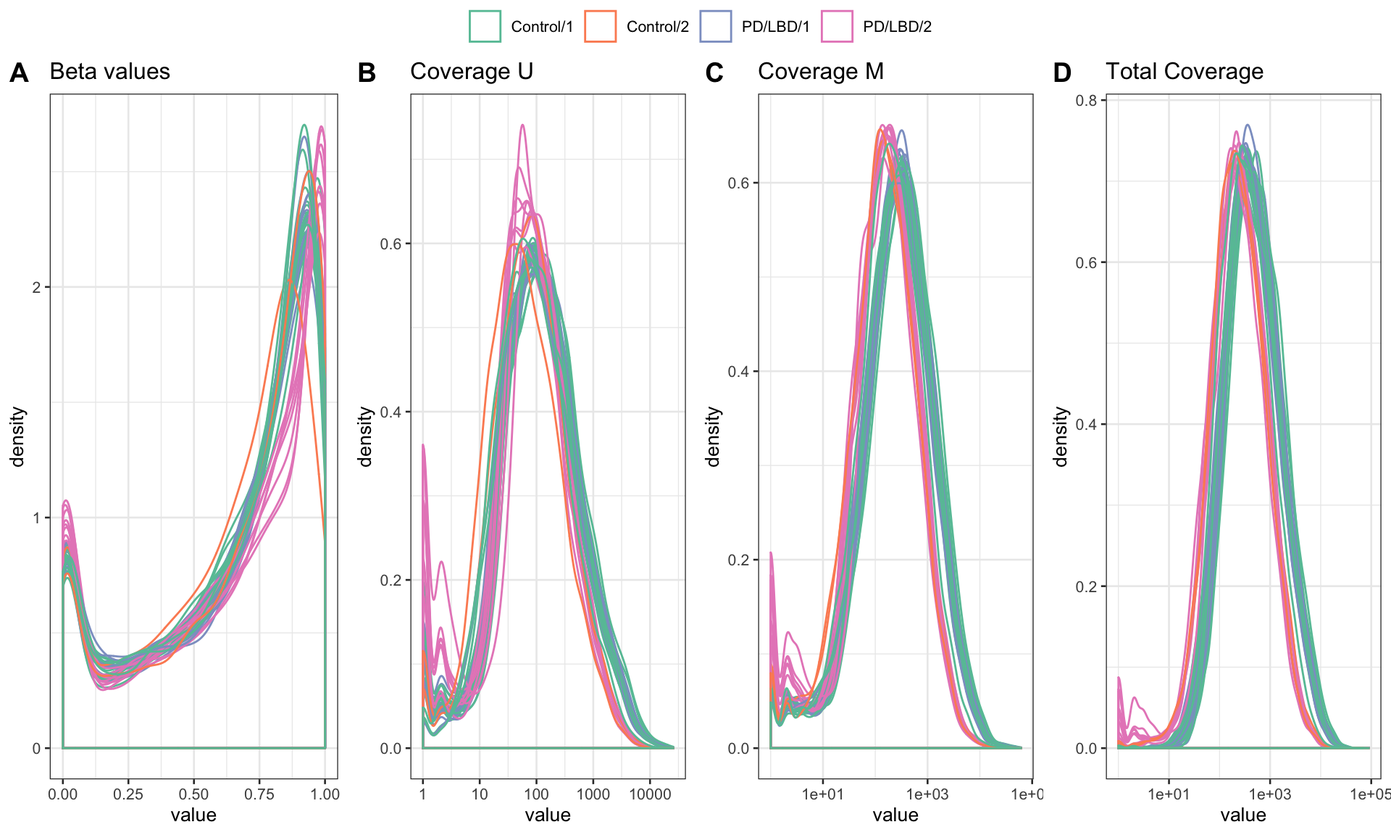
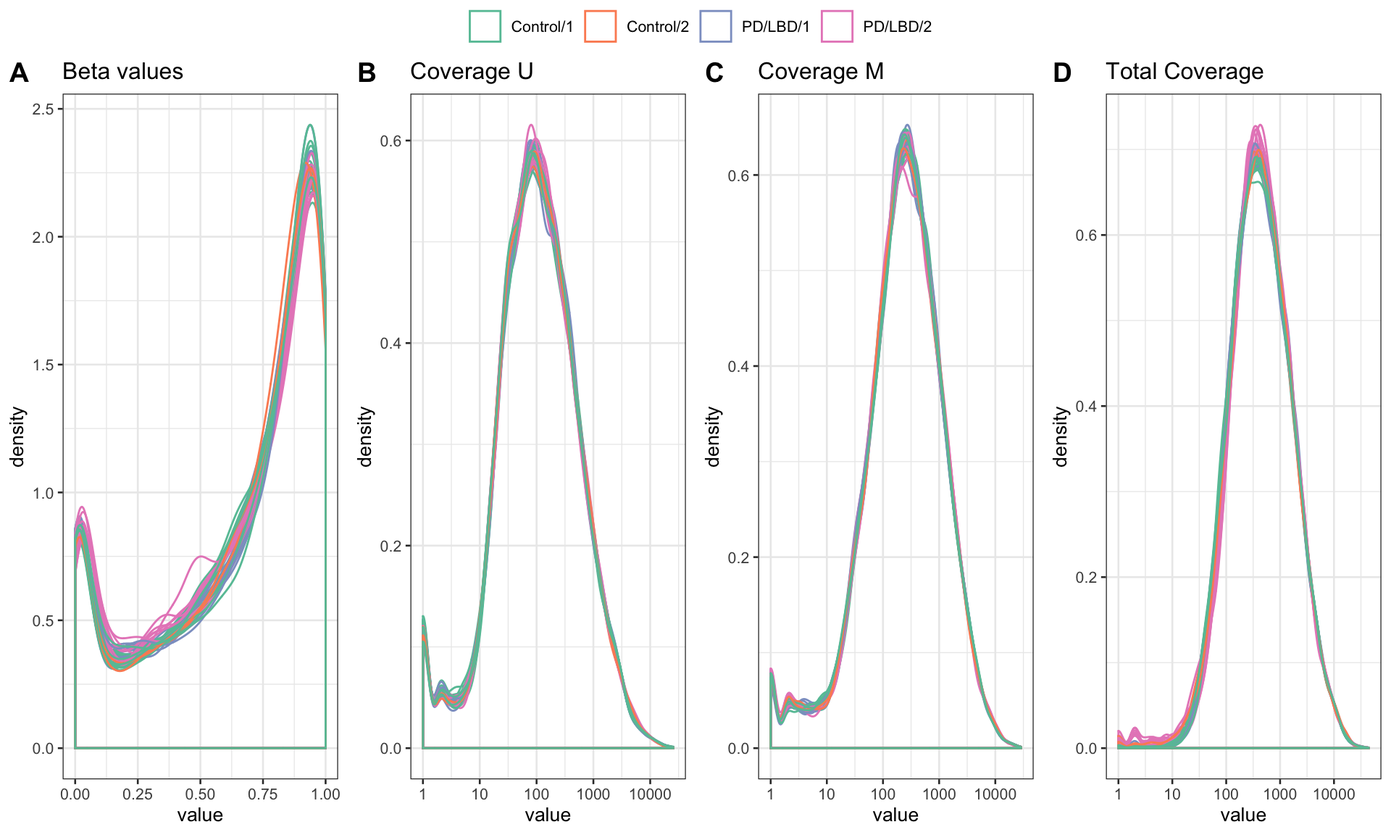
Clean up of appendix pd vs controls, padlock

diff --git a/Appendix_PDvsControls_Padlock/index.html b/Appendix_PDvsControls_Padlock/index.html
@@ -315,7 +315,6 @@ div.tocify {
 </div>
 <div id="section-data" class="section level1">
 <h1>Data</h1>
-<p>From directory PD_Appendix_padloc_01172019, the beta and count matrices provided by Peipei. Technical replicates were combined by averaging and rounding their M and U counts. Beta values were already averaged.</p>
 <p>Resulting data structure:</p>
 <pre><code>##      sample   beta genome counts countsU countsM modelData
 ## [1,]     44 186080 186080 186080  186080  186080        44
@@ -394,12 +393,12 @@ PD/LBD
 <div id="section-normalization" class="section level2">
 <h2>Normalization</h2>
 <p>Signal density before normalization</p>
-<p><img src="index_files/figure-html/unnamed-chunk-12-1.png" width="100%" /></p>
+<p><img src="index_files/figure-html/unnamed-chunk-11-1.png" width="100%" /></p>
 <!-- After normalization -->
-<p>NU and M matrices were quantile normalized separately, total counts and beta values were obtained from normalized matrices.</p>
+<p>U and M matrices were quantile normalized separately, total counts and beta values were obtained from normalized matrices.</p>
 <p>Signals after normalization</p>
-<p><img src="index_files/figure-html/unnamed-chunk-13-1.png" width="100%" />PCA and outliers after normalization</p>
-<p><img src="index_files/figure-html/unnamed-chunk-13-2.png" width="100%" /></p>
+<p><img src="index_files/figure-html/unnamed-chunk-12-1.png" width="100%" />PCA and outliers after normalization</p>
+<p><img src="index_files/figure-html/unnamed-chunk-12-2.png" width="100%" /></p>
 </div>
 <div id="section-covariates" class="section level2">
 <h2>Covariates</h2>
@@ -435,7 +434,6 @@ PD/LBD
 </div>
 <div id="section-robust-lmfit" class="section level1">
 <h1>Robust lmFit</h1>
-<p>50% stable, non extreme change, M values, robust limma eBayes</p>
 <pre class="r"><code>methylation &lt;- data$beta
 prefix &lt;- &quot;m6_&quot;
 modelparams &lt;- list(
@@ -456,12 +454,12 @@ modelparams &lt;- list(
 <blockquote>
 <p>Beta values were converted to M values.</p>
 </blockquote>
-<p><img src="index_files/figure-html/unnamed-chunk-20-1.png" width="100%" /></p>
+<p><img src="index_files/figure-html/unnamed-chunk-19-1.png" width="100%" /></p>
 </div>
 <div id="section-data-download" class="section level2">
 <h2>Data download</h2>
 <blockquote>
-<p>Download <a href="www/m6_methylation.RDS">data</a> file.</p>
+<p><a href="www/m6_methylation.RDS">Download processed data (.RDS)</a> file.</p>
 </blockquote>
 </div>
 <div id="section-data-pcs-vs-covariates" class="section level2">
@@ -826,7 +824,7 @@ PC5
 </tbody>
 </table>
 <p>The covariates significantly affecting the PCs using ANOVA:</p>
-<p><img src="index_files/figure-html/unnamed-chunk-24-1.png" width="100%" /></p>
+<p><img src="index_files/figure-html/unnamed-chunk-23-1.png" width="100%" /></p>
 </div>
 <div id="section-select-the-number-of-svs" class="section level2">
 <h2>Select the number of SVs</h2>
@@ -838,63 +836,19 @@ PC5
 <div id="section-p-value-distribution" class="section level3">
 <h3>P value distribution</h3>
 <pre><code>## Warning: Removed 29 rows containing non-finite values (stat_bin).</code></pre>
-<p><img src="index_files/figure-html/unnamed-chunk-29-1.png" width="100%" /></p>
+<p><img src="index_files/figure-html/unnamed-chunk-28-1.png" width="100%" /></p>
 </div>
 <div id="section-volcano-plot" class="section level3">
 <h3>Volcano plot</h3>
-<p><img src="index_files/figure-html/unnamed-chunk-31-1.png" width="100%" /></p>
+<p><img src="index_files/figure-html/unnamed-chunk-30-1.png" width="100%" /></p>
 </div>
 <div id="section-manhattan-plot" class="section level3">
 <h3>Manhattan plot</h3>
-<pre><code>## Loading required package: ggrepel</code></pre>
-<p><img src="index_files/figure-html/unnamed-chunk-32-1.png" width="100%" /><a href="www/m6_manhattan.pdf">PDF</a></p>
-</div>
-<div id="section-enrichment" class="section level3">
-<h3>Enrichment</h3>
-<table class="table table-striped table-hover" style="margin-left: auto; margin-right: auto;">
-<thead>
-<tr>
-<th style="text-align:left;">
-substr
-</th>
-<th style="text-align:right;">
-MeanFC
-</th>
-<th style="text-align:right;">
-NoSign
-</th>
-<th style="text-align:right;">
-OR
-</th>
-<th style="text-align:right;">
-P
-</th>
-</tr>
-</thead>
-<tbody>
-<tr>
-<td style="text-align:left;">
-CG
-</td>
-<td style="text-align:right;">
--0.0152209
-</td>
-<td style="text-align:right;">
-928
-</td>
-<td style="text-align:right;">
-1.3864
-</td>
-<td style="text-align:right;">
-1e-06
-</td>
-</tr>
-</tbody>
-</table>
+<p><img src="index_files/figure-html/unnamed-chunk-31-1.png" width="100%" /></p>
 </div>
 <div id="section-download" class="section level3">
 <h3>Download</h3>
-<p><a href="www/m6_Appendix_PDvsControls_Padlock.csv">Download results</a></p>
+<p><a href="www/m6_Appendix_PDvsControls_Padlock.csv">Download model fit results (.csv)</a></p>
 <!-- Final touches to remove lasting effects -->
 </div>
 </div>
@@ -916,28 +870,27 @@ CG
 ## [8] base     
 ## 
 ## other attached packages:
-##  [1] ggrepel_0.8.1         latex2exp_0.4.0       doSNOW_1.0.18        
-##  [4] snow_0.4-3            itertools_0.1-3       iterators_1.0.12     
-##  [7] limma_3.42.0          impute_1.60.0         WGCNA_1.68           
-## [10] fastcluster_1.1.25    dynamicTreeCut_1.63-1 glue_1.3.1           
-## [13] foreach_1.4.7         ggpubr_0.2.4          magrittr_1.5         
-## [16] plotly_4.9.1          ggplot2_3.2.1         dplyr_0.8.3          
-## [19] data.table_1.12.8     kableExtra_1.1.0      knitr_1.26           
-## [22] shiny_1.4.0          
+##  [1] latex2exp_0.4.0       doSNOW_1.0.18         snow_0.4-3           
+##  [4] itertools_0.1-3       iterators_1.0.12      limma_3.42.0         
+##  [7] impute_1.60.0         WGCNA_1.68            fastcluster_1.1.25   
+## [10] dynamicTreeCut_1.63-1 glue_1.3.1            foreach_1.4.7        
+## [13] ggpubr_0.2.4          magrittr_1.5          plotly_4.9.1         
+## [16] ggplot2_3.2.1         dplyr_0.8.3           data.table_1.12.8    
+## [19] kableExtra_1.1.0      knitr_1.26            shiny_1.4.0          
 ## 
 ## loaded via a namespace (and not attached):
 ##  [1] colorspace_1.4-1      ggsignif_0.6.0        htmlTable_1.13.3     
 ##  [4] base64enc_0.1-3       rstudioapi_0.10       farver_2.0.1         
-##  [7] bit64_0.9-7           AnnotationDbi_1.48.0  mvtnorm_1.0-11       
-## [10] xml2_1.2.2            codetools_0.2-16      splines_3.6.1        
-## [13] doParallel_1.0.15     robustbase_0.93-5     zeallot_0.1.0        
-## [16] Formula_1.2-3         jsonlite_1.6          cluster_2.1.0        
-## [19] GO.db_3.10.0          rrcov_1.4-7           readr_1.3.1          
-## [22] compiler_3.6.1        httr_1.4.1            backports_1.1.5      
-## [25] assertthat_0.2.1      Matrix_1.2-17         fastmap_1.0.1        
-## [28] lazyeval_0.2.2        later_1.0.0           acepack_1.4.1        
-## [31] htmltools_0.4.0       tools_3.6.1           gtable_0.3.0         
-## [34] reshape2_1.4.3        Rcpp_1.0.3            Biobase_2.46.0       
+##  [7] ggrepel_0.8.1         bit64_0.9-7           AnnotationDbi_1.48.0 
+## [10] mvtnorm_1.0-11        xml2_1.2.2            codetools_0.2-16     
+## [13] splines_3.6.1         doParallel_1.0.15     robustbase_0.93-5    
+## [16] zeallot_0.1.0         Formula_1.2-3         jsonlite_1.6         
+## [19] cluster_2.1.0         GO.db_3.10.0          rrcov_1.4-7          
+## [22] readr_1.3.1           compiler_3.6.1        httr_1.4.1           
+## [25] backports_1.1.5       assertthat_0.2.1      Matrix_1.2-17        
+## [28] fastmap_1.0.1         lazyeval_0.2.2        later_1.0.0          
+## [31] acepack_1.4.1         htmltools_0.4.0       tools_3.6.1          
+## [34] gtable_0.3.0          Rcpp_1.0.3            Biobase_2.46.0       
 ## [37] vctrs_0.2.1           preprocessCore_1.48.0 xfun_0.11            
 ## [40] stringr_1.4.0         rvest_0.3.5           mime_0.8             
 ## [43] lifecycle_0.1.0       DEoptimR_1.0-8        MASS_7.3-51.4        
@@ -950,23 +903,22 @@ CG
 ## [64] matrixStats_0.55.0    evaluate_0.14         lattice_0.20-38      
 ## [67] purrr_0.3.3           htmlwidgets_1.5.1     labeling_0.3         
 ## [70] cowplot_1.0.0         bit_1.1-14            tidyselect_0.2.5     
-## [73] robust_0.4-18.1       plyr_1.8.5            R6_2.4.1             
-## [76] IRanges_2.20.0        Hmisc_4.2-0           fit.models_0.5-14    
-## [79] DBI_1.1.0             pillar_1.4.3          foreign_0.8-72       
-## [82] withr_2.1.2           survival_2.44-1.1     nnet_7.3-12          
-## [85] tibble_2.1.3          crayon_1.3.4          rmarkdown_1.18       
-## [88] grid_3.6.1            blob_1.2.0            digest_0.6.23        
-## [91] webshot_0.5.2         xtable_1.8-4          tidyr_1.0.0          
-## [94] httpuv_1.5.2          stats4_3.6.1          munsell_0.5.0        
-## [97] viridisLite_0.3.0</code></pre>
+## [73] robust_0.4-18.1       R6_2.4.1              IRanges_2.20.0       
+## [76] Hmisc_4.2-0           fit.models_0.5-14     DBI_1.1.0            
+## [79] pillar_1.4.3          foreign_0.8-72        withr_2.1.2          
+## [82] survival_2.44-1.1     nnet_7.3-12           tibble_2.1.3         
+## [85] crayon_1.3.4          rmarkdown_1.18        grid_3.6.1           
+## [88] blob_1.2.0            digest_0.6.23         webshot_0.5.2        
+## [91] xtable_1.8-4          tidyr_1.0.0           httpuv_1.5.2         
+## [94] stats4_3.6.1          munsell_0.5.0         viridisLite_0.3.0</code></pre>
 <!--html_preserve-->
 <script type="application/shiny-prerendered" data-context="dependencies">
-{"type":"list","attributes":{},"value":[{"type":"list","attributes":{"names":{"type":"character","attributes":{},"value":["name","version","src","meta","script","stylesheet","head","attachment","package","all_files","pkgVersion"]},"class":{"type":"character","attributes":{},"value":["html_dependency"]}},"value":[{"type":"character","attributes":{},"value":["jquery"]},{"type":"character","attributes":{},"value":["1.11.3"]},{"type":"list","attributes":{"names":{"type":"character","attributes":{},"value":["file"]}},"value":[{"type":"character","attributes":{},"value":["rmd/h/jquery"]}]},{"type":"NULL"},{"type":"character","attributes":{},"value":["jquery.min.js"]},{"type":"NULL"},{"type":"NULL"},{"type":"NULL"},{"type":"character","attributes":{},"value":["rmarkdown"]},{"type":"logical","attributes":{},"value":[true]},{"type":"character","attributes":{},"value":["1.18"]}]},{"type":"list","attributes":{"names":{"type":"character","attributes":{},"value":["name","version","src","meta","script","stylesheet","head","attachment","package","all_files","pkgVersion"]},"class":{"type":"character","attributes":{},"value":["html_dependency"]}},"value":[{"type":"character","attributes":{},"value":["bootstrap"]},{"type":"character","attributes":{},"value":["3.3.5"]},{"type":"list","attributes":{"names":{"type":"character","attributes":{},"value":["file"]}},"value":[{"type":"character","attributes":{},"value":["rmd/h/bootstrap"]}]},{"type":"list","attributes":{"names":{"type":"character","attributes":{},"value":["viewport"]}},"value":[{"type":"character","attributes":{},"value":["width=device-width, initial-scale=1"]}]},{"type":"character","attributes":{},"value":["js/bootstrap.min.js","shim/html5shiv.min.js","shim/respond.min.js"]},{"type":"character","attributes":{},"value":["css/bootstrap.min.css"]},{"type":"NULL"},{"type":"NULL"},{"type":"character","attributes":{},"value":["rmarkdown"]},{"type":"logical","attributes":{},"value":[true]},{"type":"character","attributes":{},"value":["1.18"]}]},{"type":"list","attributes":{"names":{"type":"character","attributes":{},"value":["name","version","src","meta","script","stylesheet","head","attachment","package","all_files","pkgVersion"]},"class":{"type":"character","attributes":{},"value":["html_dependency"]}},"value":[{"type":"character","attributes":{},"value":["jquery"]},{"type":"character","attributes":{},"value":["1.11.3"]},{"type":"list","attributes":{"names":{"type":"character","attributes":{},"value":["file"]}},"value":[{"type":"character","attributes":{},"value":["rmd/h/jquery"]}]},{"type":"NULL"},{"type":"character","attributes":{},"value":["jquery.min.js"]},{"type":"NULL"},{"type":"NULL"},{"type":"NULL"},{"type":"character","attributes":{},"value":["rmarkdown"]},{"type":"logical","attributes":{},"value":[true]},{"type":"character","attributes":{},"value":["1.18"]}]},{"type":"list","attributes":{"names":{"type":"character","attributes":{},"value":["name","version","src","meta","script","stylesheet","head","attachment","package","all_files","pkgVersion"]},"class":{"type":"character","attributes":{},"value":["html_dependency"]}},"value":[{"type":"character","attributes":{},"value":["jqueryui"]},{"type":"character","attributes":{},"value":["1.11.4"]},{"type":"list","attributes":{"names":{"type":"character","attributes":{},"value":["file"]}},"value":[{"type":"character","attributes":{},"value":["rmd/h/jqueryui"]}]},{"type":"NULL"},{"type":"character","attributes":{},"value":["jquery-ui.min.js"]},{"type":"NULL"},{"type":"NULL"},{"type":"NULL"},{"type":"character","attributes":{},"value":["rmarkdown"]},{"type":"logical","attributes":{},"value":[true]},{"type":"character","attributes":{},"value":["1.18"]}]},{"type":"list","attributes":{"names":{"type":"character","attributes":{},"value":["name","version","src","meta","script","stylesheet","head","attachment","package","all_files","pkgVersion"]},"class":{"type":"character","attributes":{},"value":["html_dependency"]}},"value":[{"type":"character","attributes":{},"value":["tocify"]},{"type":"character","attributes":{},"value":["1.9.1"]},{"type":"list","attributes":{"names":{"type":"character","attributes":{},"value":["file"]}},"value":[{"type":"character","attributes":{},"value":["rmd/h/tocify"]}]},{"type":"NULL"},{"type":"character","attributes":{},"value":["jquery.tocify.js"]},{"type":"character","attributes":{},"value":["jquery.tocify.css"]},{"type":"NULL"},{"type":"NULL"},{"type":"character","attributes":{},"value":["rmarkdown"]},{"type":"logical","attributes":{},"value":[true]},{"type":"character","attributes":{},"value":["1.18"]}]},{"type":"list","attributes":{"names":{"type":"character","attributes":{},"value":["name","version","src","meta","script","stylesheet","head","attachment","package","all_files","pkgVersion"]},"class":{"type":"character","attributes":{},"value":["html_dependency"]}},"value":[{"type":"character","attributes":{},"value":["jquery"]},{"type":"character","attributes":{},"value":["1.11.3"]},{"type":"list","attributes":{"names":{"type":"character","attributes":{},"value":["file"]}},"value":[{"type":"character","attributes":{},"value":["rmd/h/jquery"]}]},{"type":"NULL"},{"type":"character","attributes":{},"value":["jquery.min.js"]},{"type":"NULL"},{"type":"NULL"},{"type":"NULL"},{"type":"character","attributes":{},"value":["rmarkdown"]},{"type":"logical","attributes":{},"value":[true]},{"type":"character","attributes":{},"value":["1.18"]}]},{"type":"list","attributes":{"names":{"type":"character","attributes":{},"value":["name","version","src","meta","script","stylesheet","head","attachment","package","all_files","pkgVersion"]},"class":{"type":"character","attributes":{},"value":["html_dependency"]}},"value":[{"type":"character","attributes":{},"value":["navigation"]},{"type":"character","attributes":{},"value":["1.1"]},{"type":"list","attributes":{"names":{"type":"character","attributes":{},"value":["file"]}},"value":[{"type":"character","attributes":{},"value":["rmd/h/navigation-1.1"]}]},{"type":"NULL"},{"type":"character","attributes":{},"value":["tabsets.js"]},{"type":"NULL"},{"type":"NULL"},{"type":"NULL"},{"type":"character","attributes":{},"value":["rmarkdown"]},{"type":"logical","attributes":{},"value":[true]},{"type":"character","attributes":{},"value":["1.18"]}]},{"type":"list","attributes":{"names":{"type":"character","attributes":{},"value":["name","version","src","meta","script","stylesheet","head","attachment","package","all_files","pkgVersion"]},"class":{"type":"character","attributes":{},"value":["html_dependency"]}},"value":[{"type":"character","attributes":{},"value":["highlightjs"]},{"type":"character","attributes":{},"value":["9.12.0"]},{"type":"list","attributes":{"names":{"type":"character","attributes":{},"value":["file"]}},"value":[{"type":"character","attributes":{},"value":["rmd/h/highlightjs"]}]},{"type":"NULL"},{"type":"character","attributes":{},"value":["highlight.js"]},{"type":"character","attributes":{},"value":["default.css"]},{"type":"NULL"},{"type":"NULL"},{"type":"character","attributes":{},"value":["rmarkdown"]},{"type":"logical","attributes":{},"value":[true]},{"type":"character","attributes":{},"value":["1.18"]}]},{"type":"list","attributes":{"names":{"type":"character","attributes":{},"value":["name","version","src","meta","script","stylesheet","head","attachment","package","all_files","pkgVersion"]},"class":{"type":"character","attributes":{},"value":["html_dependency"]}},"value":[{"type":"character","attributes":{},"value":["kePrint"]},{"type":"character","attributes":{},"value":["0.0.1"]},{"type":"list","attributes":{"names":{"type":"character","attributes":{},"value":["file"]}},"value":[{"type":"character","attributes":{},"value":["kePrint-0.0.1"]}]},{"type":"NULL"},{"type":"character","attributes":{},"value":["kePrint.js"]},{"type":"NULL"},{"type":"NULL"},{"type":"NULL"},{"type":"character","attributes":{},"value":["kableExtra"]},{"type":"logical","attributes":{},"value":[true]},{"type":"character","attributes":{},"value":["1.1.0"]}]},{"type":"list","attributes":{"names":{"type":"character","attributes":{},"value":["name","version","src","meta","script","stylesheet","head","attachment","package","all_files","pkgVersion"]},"class":{"type":"character","attributes":{},"value":["html_dependency"]}},"value":[{"type":"character","attributes":{},"value":["kePrint"]},{"type":"character","attributes":{},"value":["0.0.1"]},{"type":"list","attributes":{"names":{"type":"character","attributes":{},"value":["file"]}},"value":[{"type":"character","attributes":{},"value":["kePrint-0.0.1"]}]},{"type":"NULL"},{"type":"character","attributes":{},"value":["kePrint.js"]},{"type":"NULL"},{"type":"NULL"},{"type":"NULL"},{"type":"character","attributes":{},"value":["kableExtra"]},{"type":"logical","attributes":{},"value":[true]},{"type":"character","attributes":{},"value":["1.1.0"]}]},{"type":"list","attributes":{"names":{"type":"character","attributes":{},"value":["name","version","src","meta","script","stylesheet","head","attachment","package","all_files","pkgVersion"]},"class":{"type":"character","attributes":{},"value":["html_dependency"]}},"value":[{"type":"character","attributes":{},"value":["kePrint"]},{"type":"character","attributes":{},"value":["0.0.1"]},{"type":"list","attributes":{"names":{"type":"character","attributes":{},"value":["file"]}},"value":[{"type":"character","attributes":{},"value":["kePrint-0.0.1"]}]},{"type":"NULL"},{"type":"character","attributes":{},"value":["kePrint.js"]},{"type":"NULL"},{"type":"NULL"},{"type":"NULL"},{"type":"character","attributes":{},"value":["kableExtra"]},{"type":"logical","attributes":{},"value":[true]},{"type":"character","attributes":{},"value":["1.1.0"]}]}]}
+{"type":"list","attributes":{},"value":[{"type":"list","attributes":{"names":{"type":"character","attributes":{},"value":["name","version","src","meta","script","stylesheet","head","attachment","package","all_files","pkgVersion"]},"class":{"type":"character","attributes":{},"value":["html_dependency"]}},"value":[{"type":"character","attributes":{},"value":["jquery"]},{"type":"character","attributes":{},"value":["1.11.3"]},{"type":"list","attributes":{"names":{"type":"character","attributes":{},"value":["file"]}},"value":[{"type":"character","attributes":{},"value":["rmd/h/jquery"]}]},{"type":"NULL"},{"type":"character","attributes":{},"value":["jquery.min.js"]},{"type":"NULL"},{"type":"NULL"},{"type":"NULL"},{"type":"character","attributes":{},"value":["rmarkdown"]},{"type":"logical","attributes":{},"value":[true]},{"type":"character","attributes":{},"value":["1.18"]}]},{"type":"list","attributes":{"names":{"type":"character","attributes":{},"value":["name","version","src","meta","script","stylesheet","head","attachment","package","all_files","pkgVersion"]},"class":{"type":"character","attributes":{},"value":["html_dependency"]}},"value":[{"type":"character","attributes":{},"value":["bootstrap"]},{"type":"character","attributes":{},"value":["3.3.5"]},{"type":"list","attributes":{"names":{"type":"character","attributes":{},"value":["file"]}},"value":[{"type":"character","attributes":{},"value":["rmd/h/bootstrap"]}]},{"type":"list","attributes":{"names":{"type":"character","attributes":{},"value":["viewport"]}},"value":[{"type":"character","attributes":{},"value":["width=device-width, initial-scale=1"]}]},{"type":"character","attributes":{},"value":["js/bootstrap.min.js","shim/html5shiv.min.js","shim/respond.min.js"]},{"type":"character","attributes":{},"value":["css/bootstrap.min.css"]},{"type":"NULL"},{"type":"NULL"},{"type":"character","attributes":{},"value":["rmarkdown"]},{"type":"logical","attributes":{},"value":[true]},{"type":"character","attributes":{},"value":["1.18"]}]},{"type":"list","attributes":{"names":{"type":"character","attributes":{},"value":["name","version","src","meta","script","stylesheet","head","attachment","package","all_files","pkgVersion"]},"class":{"type":"character","attributes":{},"value":["html_dependency"]}},"value":[{"type":"character","attributes":{},"value":["jquery"]},{"type":"character","attributes":{},"value":["1.11.3"]},{"type":"list","attributes":{"names":{"type":"character","attributes":{},"value":["file"]}},"value":[{"type":"character","attributes":{},"value":["rmd/h/jquery"]}]},{"type":"NULL"},{"type":"character","attributes":{},"value":["jquery.min.js"]},{"type":"NULL"},{"type":"NULL"},{"type":"NULL"},{"type":"character","attributes":{},"value":["rmarkdown"]},{"type":"logical","attributes":{},"value":[true]},{"type":"character","attributes":{},"value":["1.18"]}]},{"type":"list","attributes":{"names":{"type":"character","attributes":{},"value":["name","version","src","meta","script","stylesheet","head","attachment","package","all_files","pkgVersion"]},"class":{"type":"character","attributes":{},"value":["html_dependency"]}},"value":[{"type":"character","attributes":{},"value":["jqueryui"]},{"type":"character","attributes":{},"value":["1.11.4"]},{"type":"list","attributes":{"names":{"type":"character","attributes":{},"value":["file"]}},"value":[{"type":"character","attributes":{},"value":["rmd/h/jqueryui"]}]},{"type":"NULL"},{"type":"character","attributes":{},"value":["jquery-ui.min.js"]},{"type":"NULL"},{"type":"NULL"},{"type":"NULL"},{"type":"character","attributes":{},"value":["rmarkdown"]},{"type":"logical","attributes":{},"value":[true]},{"type":"character","attributes":{},"value":["1.18"]}]},{"type":"list","attributes":{"names":{"type":"character","attributes":{},"value":["name","version","src","meta","script","stylesheet","head","attachment","package","all_files","pkgVersion"]},"class":{"type":"character","attributes":{},"value":["html_dependency"]}},"value":[{"type":"character","attributes":{},"value":["tocify"]},{"type":"character","attributes":{},"value":["1.9.1"]},{"type":"list","attributes":{"names":{"type":"character","attributes":{},"value":["file"]}},"value":[{"type":"character","attributes":{},"value":["rmd/h/tocify"]}]},{"type":"NULL"},{"type":"character","attributes":{},"value":["jquery.tocify.js"]},{"type":"character","attributes":{},"value":["jquery.tocify.css"]},{"type":"NULL"},{"type":"NULL"},{"type":"character","attributes":{},"value":["rmarkdown"]},{"type":"logical","attributes":{},"value":[true]},{"type":"character","attributes":{},"value":["1.18"]}]},{"type":"list","attributes":{"names":{"type":"character","attributes":{},"value":["name","version","src","meta","script","stylesheet","head","attachment","package","all_files","pkgVersion"]},"class":{"type":"character","attributes":{},"value":["html_dependency"]}},"value":[{"type":"character","attributes":{},"value":["jquery"]},{"type":"character","attributes":{},"value":["1.11.3"]},{"type":"list","attributes":{"names":{"type":"character","attributes":{},"value":["file"]}},"value":[{"type":"character","attributes":{},"value":["rmd/h/jquery"]}]},{"type":"NULL"},{"type":"character","attributes":{},"value":["jquery.min.js"]},{"type":"NULL"},{"type":"NULL"},{"type":"NULL"},{"type":"character","attributes":{},"value":["rmarkdown"]},{"type":"logical","attributes":{},"value":[true]},{"type":"character","attributes":{},"value":["1.18"]}]},{"type":"list","attributes":{"names":{"type":"character","attributes":{},"value":["name","version","src","meta","script","stylesheet","head","attachment","package","all_files","pkgVersion"]},"class":{"type":"character","attributes":{},"value":["html_dependency"]}},"value":[{"type":"character","attributes":{},"value":["navigation"]},{"type":"character","attributes":{},"value":["1.1"]},{"type":"list","attributes":{"names":{"type":"character","attributes":{},"value":["file"]}},"value":[{"type":"character","attributes":{},"value":["rmd/h/navigation-1.1"]}]},{"type":"NULL"},{"type":"character","attributes":{},"value":["tabsets.js"]},{"type":"NULL"},{"type":"NULL"},{"type":"NULL"},{"type":"character","attributes":{},"value":["rmarkdown"]},{"type":"logical","attributes":{},"value":[true]},{"type":"character","attributes":{},"value":["1.18"]}]},{"type":"list","attributes":{"names":{"type":"character","attributes":{},"value":["name","version","src","meta","script","stylesheet","head","attachment","package","all_files","pkgVersion"]},"class":{"type":"character","attributes":{},"value":["html_dependency"]}},"value":[{"type":"character","attributes":{},"value":["highlightjs"]},{"type":"character","attributes":{},"value":["9.12.0"]},{"type":"list","attributes":{"names":{"type":"character","attributes":{},"value":["file"]}},"value":[{"type":"character","attributes":{},"value":["rmd/h/highlightjs"]}]},{"type":"NULL"},{"type":"character","attributes":{},"value":["highlight.js"]},{"type":"character","attributes":{},"value":["default.css"]},{"type":"NULL"},{"type":"NULL"},{"type":"character","attributes":{},"value":["rmarkdown"]},{"type":"logical","attributes":{},"value":[true]},{"type":"character","attributes":{},"value":["1.18"]}]},{"type":"list","attributes":{"names":{"type":"character","attributes":{},"value":["name","version","src","meta","script","stylesheet","head","attachment","package","all_files","pkgVersion"]},"class":{"type":"character","attributes":{},"value":["html_dependency"]}},"value":[{"type":"character","attributes":{},"value":["kePrint"]},{"type":"character","attributes":{},"value":["0.0.1"]},{"type":"list","attributes":{"names":{"type":"character","attributes":{},"value":["file"]}},"value":[{"type":"character","attributes":{},"value":["kePrint-0.0.1"]}]},{"type":"NULL"},{"type":"character","attributes":{},"value":["kePrint.js"]},{"type":"NULL"},{"type":"NULL"},{"type":"NULL"},{"type":"character","attributes":{},"value":["kableExtra"]},{"type":"logical","attributes":{},"value":[true]},{"type":"character","attributes":{},"value":["1.1.0"]}]},{"type":"list","attributes":{"names":{"type":"character","attributes":{},"value":["name","version","src","meta","script","stylesheet","head","attachment","package","all_files","pkgVersion"]},"class":{"type":"character","attributes":{},"value":["html_dependency"]}},"value":[{"type":"character","attributes":{},"value":["kePrint"]},{"type":"character","attributes":{},"value":["0.0.1"]},{"type":"list","attributes":{"names":{"type":"character","attributes":{},"value":["file"]}},"value":[{"type":"character","attributes":{},"value":["kePrint-0.0.1"]}]},{"type":"NULL"},{"type":"character","attributes":{},"value":["kePrint.js"]},{"type":"NULL"},{"type":"NULL"},{"type":"NULL"},{"type":"character","attributes":{},"value":["kableExtra"]},{"type":"logical","attributes":{},"value":[true]},{"type":"character","attributes":{},"value":["1.1.0"]}]}]}
 </script>
 <!--/html_preserve-->
 <!--html_preserve-->
 <script type="application/shiny-prerendered" data-context="execution_dependencies">
-{"type":"list","attributes":{"names":{"type":"character","attributes":{},"value":["packages"]}},"value":[{"type":"list","attributes":{"names":{"type":"character","attributes":{},"value":["packages","version"]},"class":{"type":"character","attributes":{},"value":["data.frame"]},"row.names":{"type":"integer","attributes":{},"value":[1,2,3,4,5,6,7,8,9,10,11,12,13,14,15,16,17,18,19,20,21,22,23,24,25,26,27,28,29,30,31,32,33,34,35,36,37,38,39,40,41,42,43,44,45,46,47,48,49,50,51,52,53,54,55,56,57,58,59,60,61,62,63,64,65,66,67,68,69,70,71,72,73,74,75,76,77,78,79,80,81,82,83,84,85,86,87,88,89,90,91,92,93,94,95,96,97,98,99,100,101,102,103,104,105,106,107,108,109,110,111,112,113,114,115,116,117,118,119,120,121,122,123,124,125,126,127]}},"value":[{"type":"character","attributes":{},"value":["acepack","AnnotationDbi","assertthat","backports","base","base64enc","Biobase","BiocGenerics","bit","bit64","blob","checkmate","cluster","codetools","colorspace","compiler","cowplot","crayon","data.table","datasets","DBI","DEoptimR","digest","doParallel","doSNOW","dplyr","dynamicTreeCut","evaluate","farver","fastcluster","fastmap","fit.models","foreach","foreign","Formula","ggplot2","ggpubr","ggrepel","ggsignif","glue","GO.db","graphics","grDevices","grid","gridExtra","gtable","highr","Hmisc","hms","htmlTable","htmltools","htmlwidgets","httpuv","httr","impute","IRanges","iterators","itertools","jsonlite","kableExtra","knitr","labeling","later","latex2exp","lattice","latticeExtra","lazyeval","lifecycle","limma","magrittr","MASS","Matrix","matrixStats","memoise","methods","mime","munsell","mvtnorm","nnet","parallel","pcaPP","pillar","pkgconfig","plotly","plyr","preprocessCore","promises","purrr","R6","RColorBrewer","Rcpp","readr","reshape2","rlang","rmarkdown","robust","robustbase","rpart","rrcov","RSQLite","rstudioapi","rvest","S4Vectors","scales","shiny","snow","splines","stats","stats4","stringi","stringr","survival","tibble","tidyr","tidyselect","tools","utils","vctrs","viridisLite","webshot","WGCNA","withr","xfun","xml2","xtable","yaml","zeallot"]},{"type":"character","attributes":{},"value":["1.4.1","1.48.0","0.2.1","1.1.5","3.6.1","0.1-3","2.46.0","0.32.0","1.1-14","0.9-7","1.2.0","1.9.4","2.1.0","0.2-16","1.4-1","3.6.1","1.0.0","1.3.4","1.12.8","3.6.1","1.1.0","1.0-8","0.6.23","1.0.15","1.0.18","0.8.3","1.63-1","0.14","2.0.1","1.1.25","1.0.1","0.5-14","1.4.7","0.8-72","1.2-3","3.2.1","0.2.4","0.8.1","0.6.0","1.3.1","3.10.0","3.6.1","3.6.1","3.6.1","2.3","0.3.0","0.8","4.2-0","0.5.2","1.13.3","0.4.0","1.5.1","1.5.2","1.4.1","1.60.0","2.20.0","1.0.12","0.1-3","1.6","1.1.0","1.26","0.3","1.0.0","0.4.0","0.20-38","0.6-28","0.2.2","0.1.0","3.42.0","1.5","7.3-51.4","1.2-17","0.55.0","1.1.0","3.6.1","0.8","0.5.0","1.0-11","7.3-12","3.6.1","1.9-73","1.4.3","2.0.3","4.9.1","1.8.5","1.48.0","1.1.0","0.3.3","2.4.1","1.1-2","1.0.3","1.3.1","1.4.3","0.4.2","1.18","0.4-18.1","0.93-5","4.1-15","1.4-7","2.1.5","0.10","0.3.5","0.24.0","1.1.0","1.4.0","0.4-3","3.6.1","3.6.1","3.6.1","1.4.3","1.4.0","2.44-1.1","2.1.3","1.0.0","0.2.5","3.6.1","3.6.1","0.2.1","0.3.0","0.5.2","1.68","2.1.2","0.11","1.2.2","1.8-4","2.2.0","0.1.0"]}]}]}
+{"type":"list","attributes":{"names":{"type":"character","attributes":{},"value":["packages"]}},"value":[{"type":"list","attributes":{"names":{"type":"character","attributes":{},"value":["packages","version"]},"class":{"type":"character","attributes":{},"value":["data.frame"]},"row.names":{"type":"integer","attributes":{},"value":[1,2,3,4,5,6,7,8,9,10,11,12,13,14,15,16,17,18,19,20,21,22,23,24,25,26,27,28,29,30,31,32,33,34,35,36,37,38,39,40,41,42,43,44,45,46,47,48,49,50,51,52,53,54,55,56,57,58,59,60,61,62,63,64,65,66,67,68,69,70,71,72,73,74,75,76,77,78,79,80,81,82,83,84,85,86,87,88,89,90,91,92,93,94,95,96,97,98,99,100,101,102,103,104,105,106,107,108,109,110,111,112,113,114,115,116,117,118,119,120,121,122,123,124,125]}},"value":[{"type":"character","attributes":{},"value":["acepack","AnnotationDbi","assertthat","backports","base","base64enc","Biobase","BiocGenerics","bit","bit64","blob","checkmate","cluster","codetools","colorspace","compiler","cowplot","crayon","data.table","datasets","DBI","DEoptimR","digest","doParallel","doSNOW","dplyr","dynamicTreeCut","evaluate","farver","fastcluster","fastmap","fit.models","foreach","foreign","Formula","ggplot2","ggpubr","ggrepel","ggsignif","glue","GO.db","graphics","grDevices","grid","gridExtra","gtable","highr","Hmisc","hms","htmlTable","htmltools","htmlwidgets","httpuv","httr","impute","IRanges","iterators","itertools","jsonlite","kableExtra","knitr","labeling","later","latex2exp","lattice","latticeExtra","lazyeval","lifecycle","limma","magrittr","MASS","Matrix","matrixStats","memoise","methods","mime","munsell","mvtnorm","nnet","parallel","pcaPP","pillar","pkgconfig","plotly","preprocessCore","promises","purrr","R6","RColorBrewer","Rcpp","readr","rlang","rmarkdown","robust","robustbase","rpart","rrcov","RSQLite","rstudioapi","rvest","S4Vectors","scales","shiny","snow","splines","stats","stats4","stringi","stringr","survival","tibble","tidyr","tidyselect","tools","utils","vctrs","viridisLite","webshot","WGCNA","withr","xfun","xml2","xtable","yaml","zeallot"]},{"type":"character","attributes":{},"value":["1.4.1","1.48.0","0.2.1","1.1.5","3.6.1","0.1-3","2.46.0","0.32.0","1.1-14","0.9-7","1.2.0","1.9.4","2.1.0","0.2-16","1.4-1","3.6.1","1.0.0","1.3.4","1.12.8","3.6.1","1.1.0","1.0-8","0.6.23","1.0.15","1.0.18","0.8.3","1.63-1","0.14","2.0.1","1.1.25","1.0.1","0.5-14","1.4.7","0.8-72","1.2-3","3.2.1","0.2.4","0.8.1","0.6.0","1.3.1","3.10.0","3.6.1","3.6.1","3.6.1","2.3","0.3.0","0.8","4.2-0","0.5.2","1.13.3","0.4.0","1.5.1","1.5.2","1.4.1","1.60.0","2.20.0","1.0.12","0.1-3","1.6","1.1.0","1.26","0.3","1.0.0","0.4.0","0.20-38","0.6-28","0.2.2","0.1.0","3.42.0","1.5","7.3-51.4","1.2-17","0.55.0","1.1.0","3.6.1","0.8","0.5.0","1.0-11","7.3-12","3.6.1","1.9-73","1.4.3","2.0.3","4.9.1","1.48.0","1.1.0","0.3.3","2.4.1","1.1-2","1.0.3","1.3.1","0.4.2","1.18","0.4-18.1","0.93-5","4.1-15","1.4-7","2.1.5","0.10","0.3.5","0.24.0","1.1.0","1.4.0","0.4-3","3.6.1","3.6.1","3.6.1","1.4.3","1.4.0","2.44-1.1","2.1.3","1.0.0","0.2.5","3.6.1","3.6.1","0.2.1","0.3.0","0.5.2","1.68","2.1.2","0.11","1.2.2","1.8-4","2.2.0","0.1.0"]}]}]}
 </script>
 <!--/html_preserve-->
 </div>
